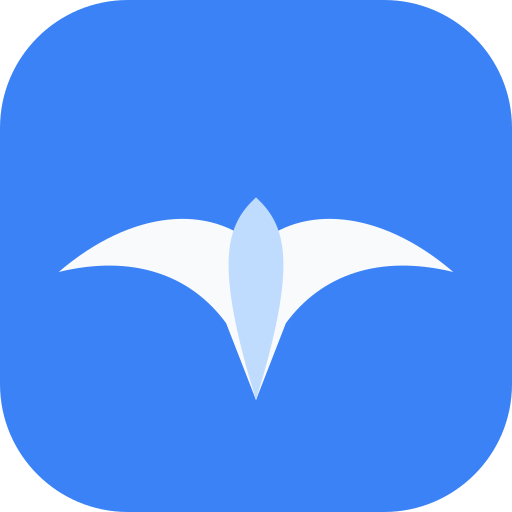
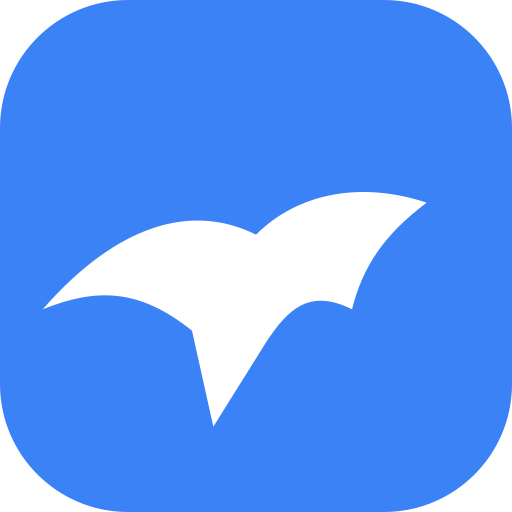
design: simplify yuyan mark for small sizes

Changed region(s): [[0.0938, 0.375, 0.875, 0.8438], [0.5938, 0.5312, 0.7188, 0.625], [0.4062, 0.4062, 0.4375, 0.4375]]

diff --git a/src/client/components/BrandMark.tsx b/src/client/components/BrandMark.tsx
@@ -16,10 +16,9 @@ export function BrandMark({ size = 30, className }: BrandMarkProps) {
     >
       <rect width="48" height="48" rx="12" fill="#3B82F6" />
       <path
-        d="M5.5 25.5C12.5 19.5 19.8 19.2 24 23.1C28.2 19.2 35.5 19.5 42.5 25.5C35.5 23.8 30.1 25.8 26.8 30.3L24 37.5L21.2 30.3C17.9 25.8 12.5 23.8 5.5 25.5Z"
-        fill="#F8FAFC"
+        d="M4 29C11 21 18 19 24 22C28 18 34 17 40 19C36 22 34 25 33 29C29 27 27 29 25 32L20 40L18 31C13 27 9 27 4 29Z"
+        fill="#FFFFFF"
       />
-      <path d="M24 18.5C26.8 21.1 28 24.5 24 37.5C20 24.5 21.2 21.1 24 18.5Z" fill="#BFDBFE" />
     </svg>
   );
 }

diff --git a/BRAND.md b/BRAND.md
@@ -7,7 +7,7 @@
 ## 品牌含义
 
 - 雨燕速度快、飞行时间长，代表轻快记录、快速找到和持续积累。
-- 图标由两片翼形页面组成，将“飞行”和“文档”合并在同一个轮廓中。
+- 图标使用加粗的侧飞雨燕剪影，保证在 16px 浏览器图标和 30px 导航栏中仍能辨认。
 - 品牌口号为“让文字飞起来”。
 
 ## 品牌色
